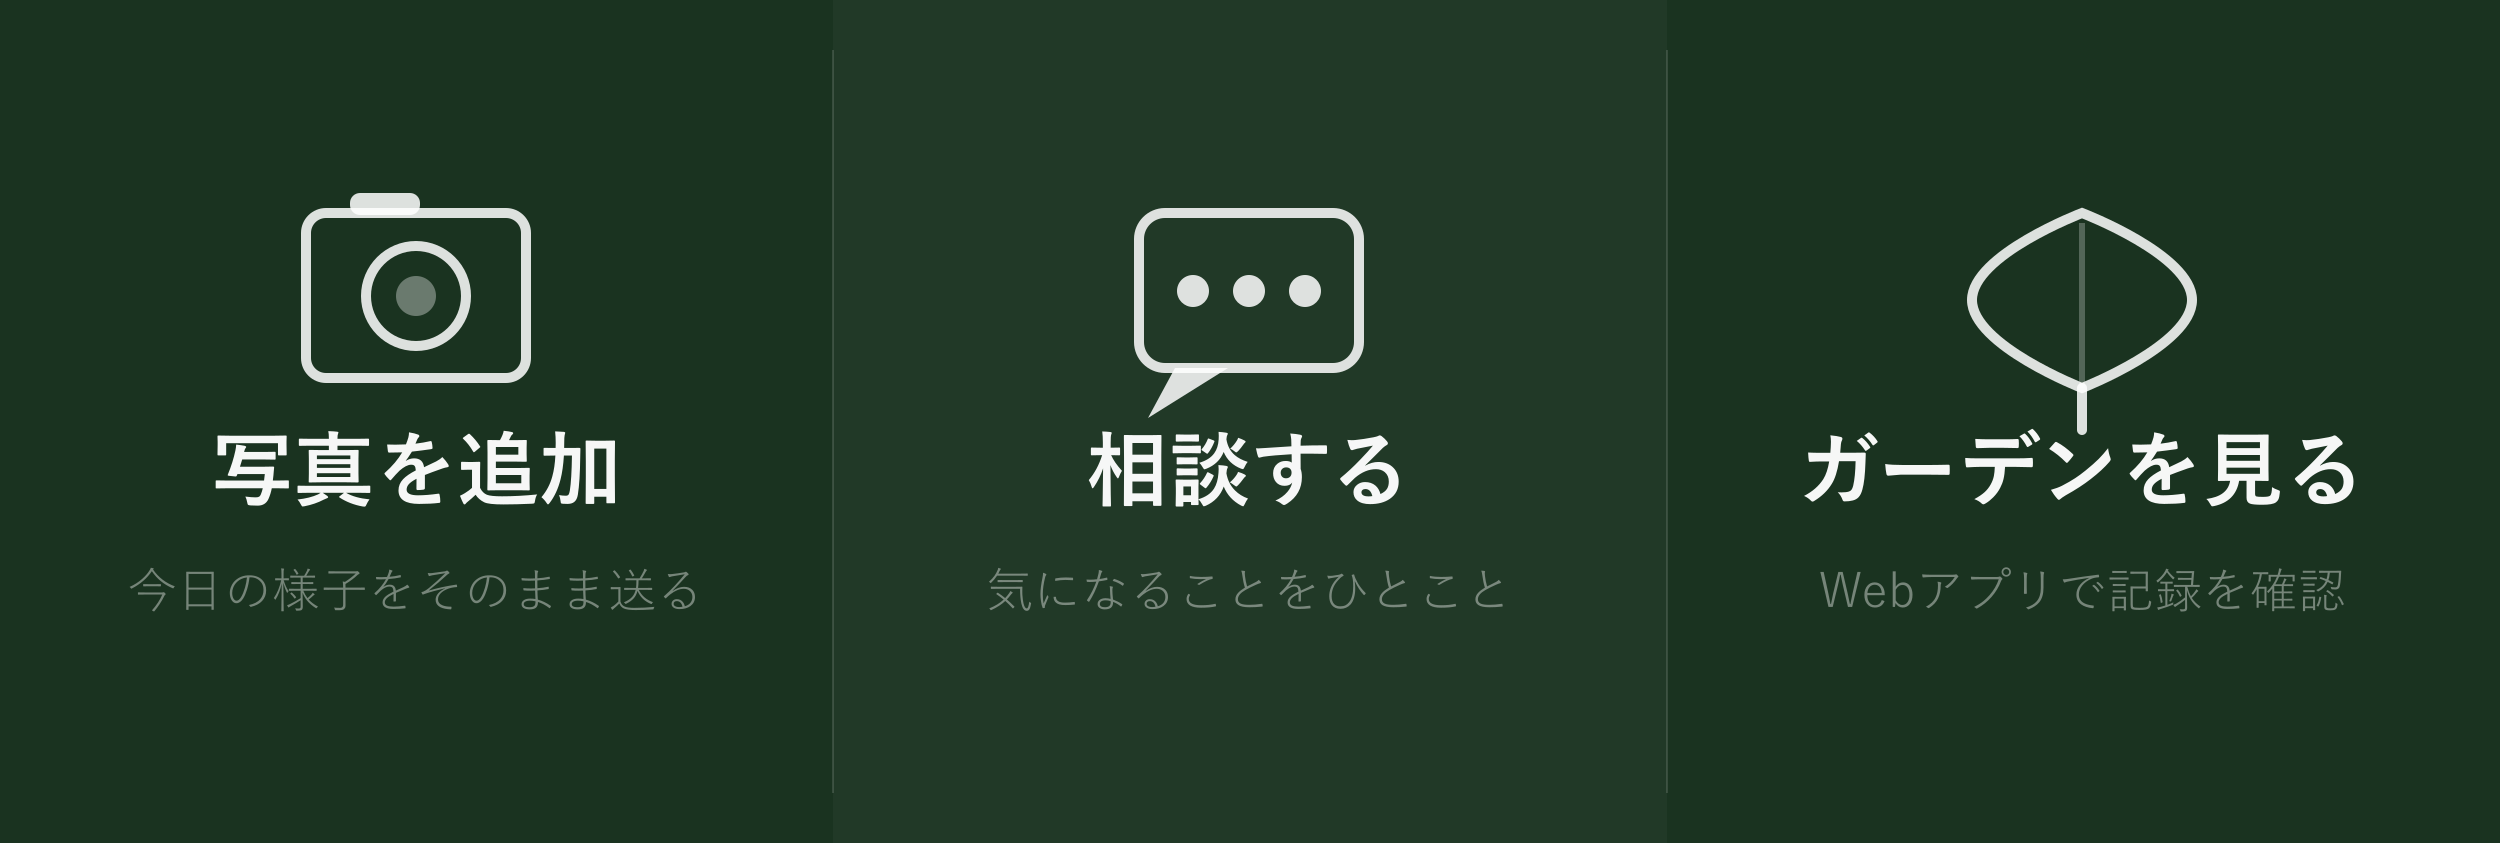
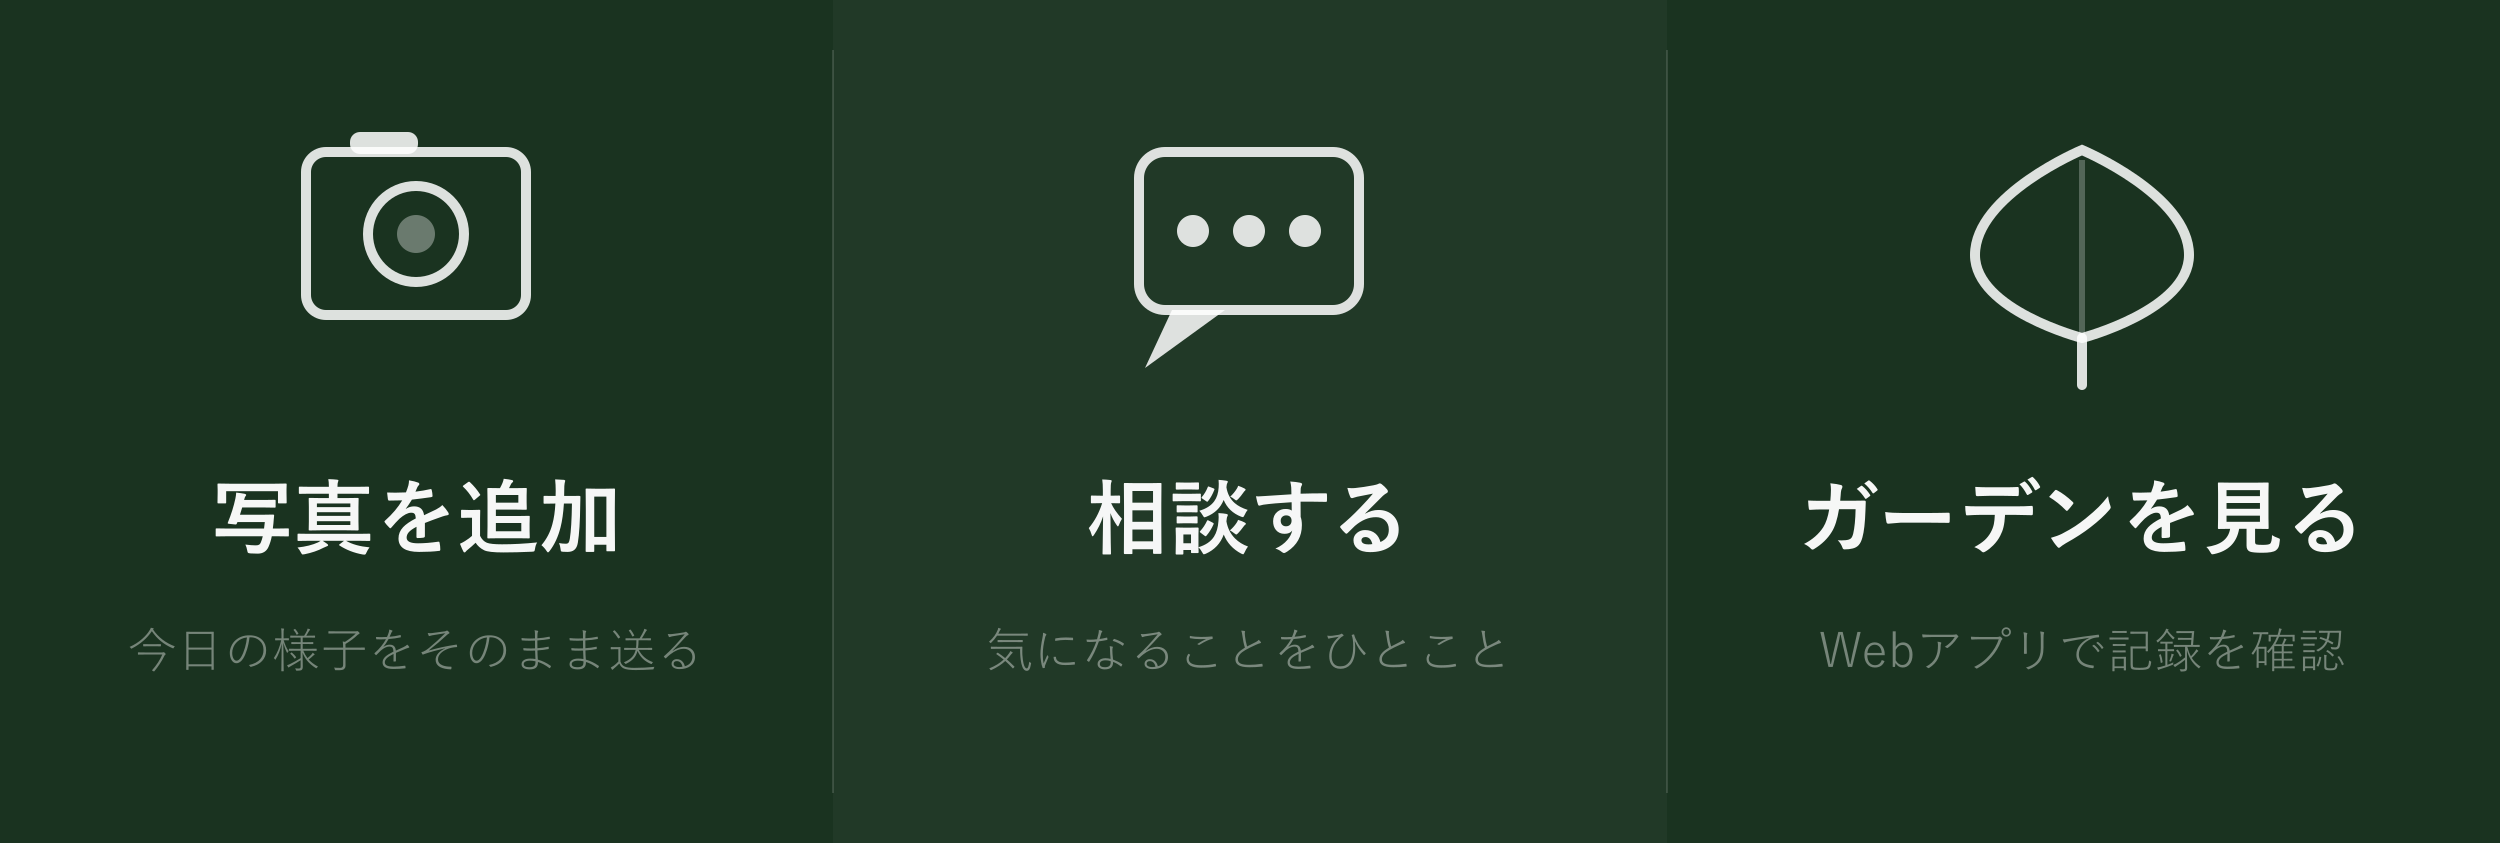
fix(line): immediate photo receipt reply + spacing + enhanced logging
webhook (handleImageMessage):
- Add [IMAGE] log at very start — confirms if webhook receives the image (diagnosis A/B)
- Send immediate replyToLine "写真を受け取りました🌿" right after household check
  (replyToken consumed early → user sees instant feedback within 1-2s)
- All subsequent responses (AI result, errors, batch count) changed to pushToLine
- Unlinked users: Plant Care tone error message
- Fetch/upload/DB errors: gentle retry message via push
- Log every step with [IMAGE] prefix for Vercel log tracing

rich menu image:
- All icon tops at y=152 (moved up from y=213)
- All text baselines at y=548/668 (moved down from y=500/608)
- Gap between icon bottom and text top: ~155px camera/bubble, ~163px leaf
- Bottom padding: 843-668=175px
- Leaf path redesigned: top y=150, widest 214px at y=255, bottom y=338+stem to y=385

richMenuId: richmenu-1fd557cff0533ecb027453f99a339f49

diff --git a/app/api/line/webhook/route.ts b/app/api/line/webhook/route.ts
@@ -440,25 +440,50 @@ async function handleImageMessage(event: any, lineToken: string) {
   const messageId: string = event.message.id;
   const replyToken: string = event.replyToken;
 
-  console.log(`[LINE] 画像受信 userId=${lineUserId}`);
-  console.log(`[LINE] messageId=${messageId}`);
+  // ── ログ: 受信確認（Vercel logs でここを見て A/B の切り分けができる） ──
+  console.log(`[IMAGE] ===== 画像受信 ===== userId=${lineUserId} messageId=${messageId} ts=${new Date().toISOString()}`);
 
   // household が紐づいていない場合は案内して終了
   const householdId = await getLinkedHouseholdId(supabase, lineUserId);
   if (!householdId) {
-    await replyToLine(lineToken, replyToken, [{ type: "text", text: NOT_LINKED_TEXT }]);
+    console.log(`[IMAGE] household未紐づき userId=${lineUserId}`);
+    await replyToLine(lineToken, replyToken, [
+      {
+        type: "text",
+        text:
+          "Plant Careとの連携がまだ見つかりませんでした。\n" +
+          "先にガーデン画面を開いて、LINE連携の状態を確認してみてください。",
+      },
+    ]);
+    return;
+  }
+
+  // ── 即時確認メッセージ（replyToken を消費）────────────────────────────
+  // AI 識別に 10〜30 秒かかるため、まず「受け取った」ことを返す。
+  // 以降の応答はすべて pushToLine で送る。
+  await replyToLine(lineToken, replyToken, [
+    { type: "text", text: "写真を受け取りました 🌿\n少しお待ちください…" },
+  ]);
+
+  // lineUserId が取れない場合は push 不可なのでここで終了
+  if (!lineUserId || lineUserId === "unknown") {
+    console.error("[IMAGE] lineUserId 不明のため以降の push 不可");
     return;
   }
 
   // 1. LINE から画像バイナリを取得
   const image = await fetchLineImage(messageId, lineToken);
   if (!image) {
-    // fetchLineImage 内で詳細ログ済み
-    await replyToLine(lineToken, replyToken, [
-      { type: "text", text: "画像の取得に失敗しました。もう一度お試しください🌱" },
+    console.error(`[IMAGE] 画像取得失敗 messageId=${messageId}`);
+    await pushToLine(lineToken, lineUserId, [
+      {
+        type: "text",
+        text: "写真を受け取れませんでした。\n少し時間をおいて、もう一度送ってみてください。",
+      },
     ]);
     return;
   }
+  console.log(`[IMAGE] 画像取得成功 size=${image.binary.byteLength}bytes contentType=${image.contentType}`);
 
   // 2. Supabase Storage に一時保存
   const ext = image.contentType.includes("png") ? "png" : "jpg";
@@ -472,14 +497,16 @@ async function handleImageMessage(event: any, lineToken: string) {
     });
 
   if (uploadError) {
-    console.error(`[Storage] upload失敗 path=${storagePath}`, uploadError);
-    await replyToLine(lineToken, replyToken, [
-      { type: "text", text: "画像の保存に失敗しました。もう一度お試しください🌱" },
+    console.error(`[IMAGE] Storage upload失敗 path=${storagePath}`, uploadError);
+    await pushToLine(lineToken, lineUserId, [
+      {
+        type: "text",
+        text: "写真を受け取れませんでした。\n少し時間をおいて、もう一度送ってみてください。",
+      },
     ]);
     return;
   }
-
-  console.log(`[Storage] upload成功 path=${storagePath}`);
+  console.log(`[IMAGE] Storage upload成功 path=${storagePath}`);
 
   // 3. pending_line_photos に記録
   const { data: pending, error: insertError } = await supabase
@@ -494,16 +521,18 @@ async function handleImageMessage(event: any, lineToken: string) {
     .single();
 
   if (insertError || !pending) {
-    console.error(`[DB] pending_line_photos insert失敗 messageId=${messageId}`, insertError);
-    await replyToLine(lineToken, replyToken, [
-      { type: "text", text: "エラーが発生しました。もう一度お試しください🌱" },
+    console.error(`[IMAGE] pending_line_photos insert失敗 messageId=${messageId}`, insertError);
+    await pushToLine(lineToken, lineUserId, [
+      {
+        type: "text",
+        text: "写真を受け取れませんでした。\n少し時間をおいて、もう一度送ってみてください。",
+      },
     ]);
     return;
   }
+  console.log(`[IMAGE] pending insert成功 id=${pending.id}`);
 
-  console.log(`[DB] pending_line_photos insert成功 id=${pending.id} storagePath=${storagePath}`);
-
-  // 4. バッチモード確認 → アクティブなら一時蓄積して返す
+  // 4. バッチモード確認 → アクティブなら一時蓄積
   const batchSession = await getActiveBatchSession(supabase, lineUserId);
   if (batchSession) {
     await supabase
@@ -518,23 +547,23 @@ async function handleImageMessage(event: any, lineToken: string) {
       .eq("status", "batching");
 
     const photoCount = count ?? 1;
-    console.log(`[Batch] 蓄積 userId=${lineUserId} batchId=${batchSession.id} count=${photoCount}`);
-    await replyToLine(lineToken, replyToken, [
-      { type: "text", text: `${photoCount}枚目を受け取りました📷\n続けて送るか、「完了」で植物を選んでください。` },
+    console.log(`[Batch] 蓄積 batchId=${batchSession.id} count=${photoCount}`);
+    await pushToLine(lineToken, lineUserId, [
+      { type: "text", text: `${photoCount}枚目を受け取りました 📷\n続けて送るか、「完了」で植物を選んでください。` },
     ]);
     return;
   }
 
-  // 5. AI で植物を推定 → 確認メッセージ送信
+  // 5. 植物一覧取得
   const plants = await fetchActivePlants(supabase, householdId);
-
   if (plants.length === 0) {
-    await replyToLine(lineToken, replyToken, [
+    await pushToLine(lineToken, lineUserId, [
       { type: "text", text: "登録されている植物がありません。先にWebアプリで植物を追加してください🌱" },
     ]);
     return;
   }
 
+  // 6. AI で植物を推定
   const { data: imageUrlData } = supabase.storage.from("plant-photos").getPublicUrl(storagePath);
   const imageUrl = imageUrlData.publicUrl;
 
@@ -545,15 +574,12 @@ async function handleImageMessage(event: any, lineToken: string) {
     memo: p.memo ?? null,
   }));
 
-  console.log(`[AI] 識別候補植物数=${plantsForAI.length}: ${plantsForAI.map((p: any) => p.name).join(", ")}`);
-
+  console.log(`[IMAGE] AI識別開始 候補=${plantsForAI.length}件: ${plantsForAI.map((p: any) => p.name).join(", ")}`);
   const aiResult = await identifyPlantFromPhoto({ imageUrl, plants: plantsForAI });
-
-  console.log(`[AI] 識別結果: matchedPlantId=${aiResult?.matchedPlantId ?? "null"} matchedPlantName=${aiResult?.matchedPlantName ?? "null"} confidence=${aiResult?.confidence ?? "null"} reason=${aiResult?.reason ?? ""}`);
+  console.log(`[IMAGE] AI識別完了 matched=${aiResult?.matchedPlantName ?? "null"} confidence=${aiResult?.confidence ?? "null"}`);
 
   if (aiResult && aiResult.confidence >= CONFIDENCE_THRESHOLD) {
-    // AI が信頼度高く推定できた → ユーザーに確認
-    await replyToLine(lineToken, replyToken, [
+    await pushToLine(lineToken, lineUserId, [
       {
         type: "text",
         text: `この写真は${aiResult.matchedPlantName}っぽいです🌿\n（${aiResult.reason}）\n\n${aiResult.matchedPlantName}として保存しますか？`,
@@ -591,20 +617,15 @@ async function handleImageMessage(event: any, lineToken: string) {
       },
     ]);
   } else {
-    // AI が判断できなかった → 直接植物選択フローへ
-    console.log(`[AI] 推定失敗 or 信頼度低 (${aiResult?.confidence ?? "null"}) → 植物選択フローへ`);
-
+    console.log(`[IMAGE] AI推定失敗 or 低信頼度 (${aiResult?.confidence ?? "null"}) → 植物選択フローへ`);
     await supabase
       .from("pending_line_photos")
       .update({ status: "selecting_plant" })
       .eq("id", pending.id);
 
     const items = buildPlantPageItems(plants, pending.id, 0);
-    const totalPages = Math.ceil(plants.length / PLANT_PAGE_SIZE);
-    const hasMoreFirst = plants.length > PLANT_PAGE_SIZE;
-    console.log(`[Plants] page=1/${totalPages} 表示件数=${items.length} 前へ=なし 次へ=${hasMoreFirst}`);
-
-    await replyToLine(lineToken, replyToken, [
+    console.log(`[IMAGE] 植物選択QR 表示件数=${items.length}`);
+    await pushToLine(lineToken, lineUserId, [
       {
         type: "text",
         text: "どの植物か判断が難しかったので、植物を選んでください🌱",